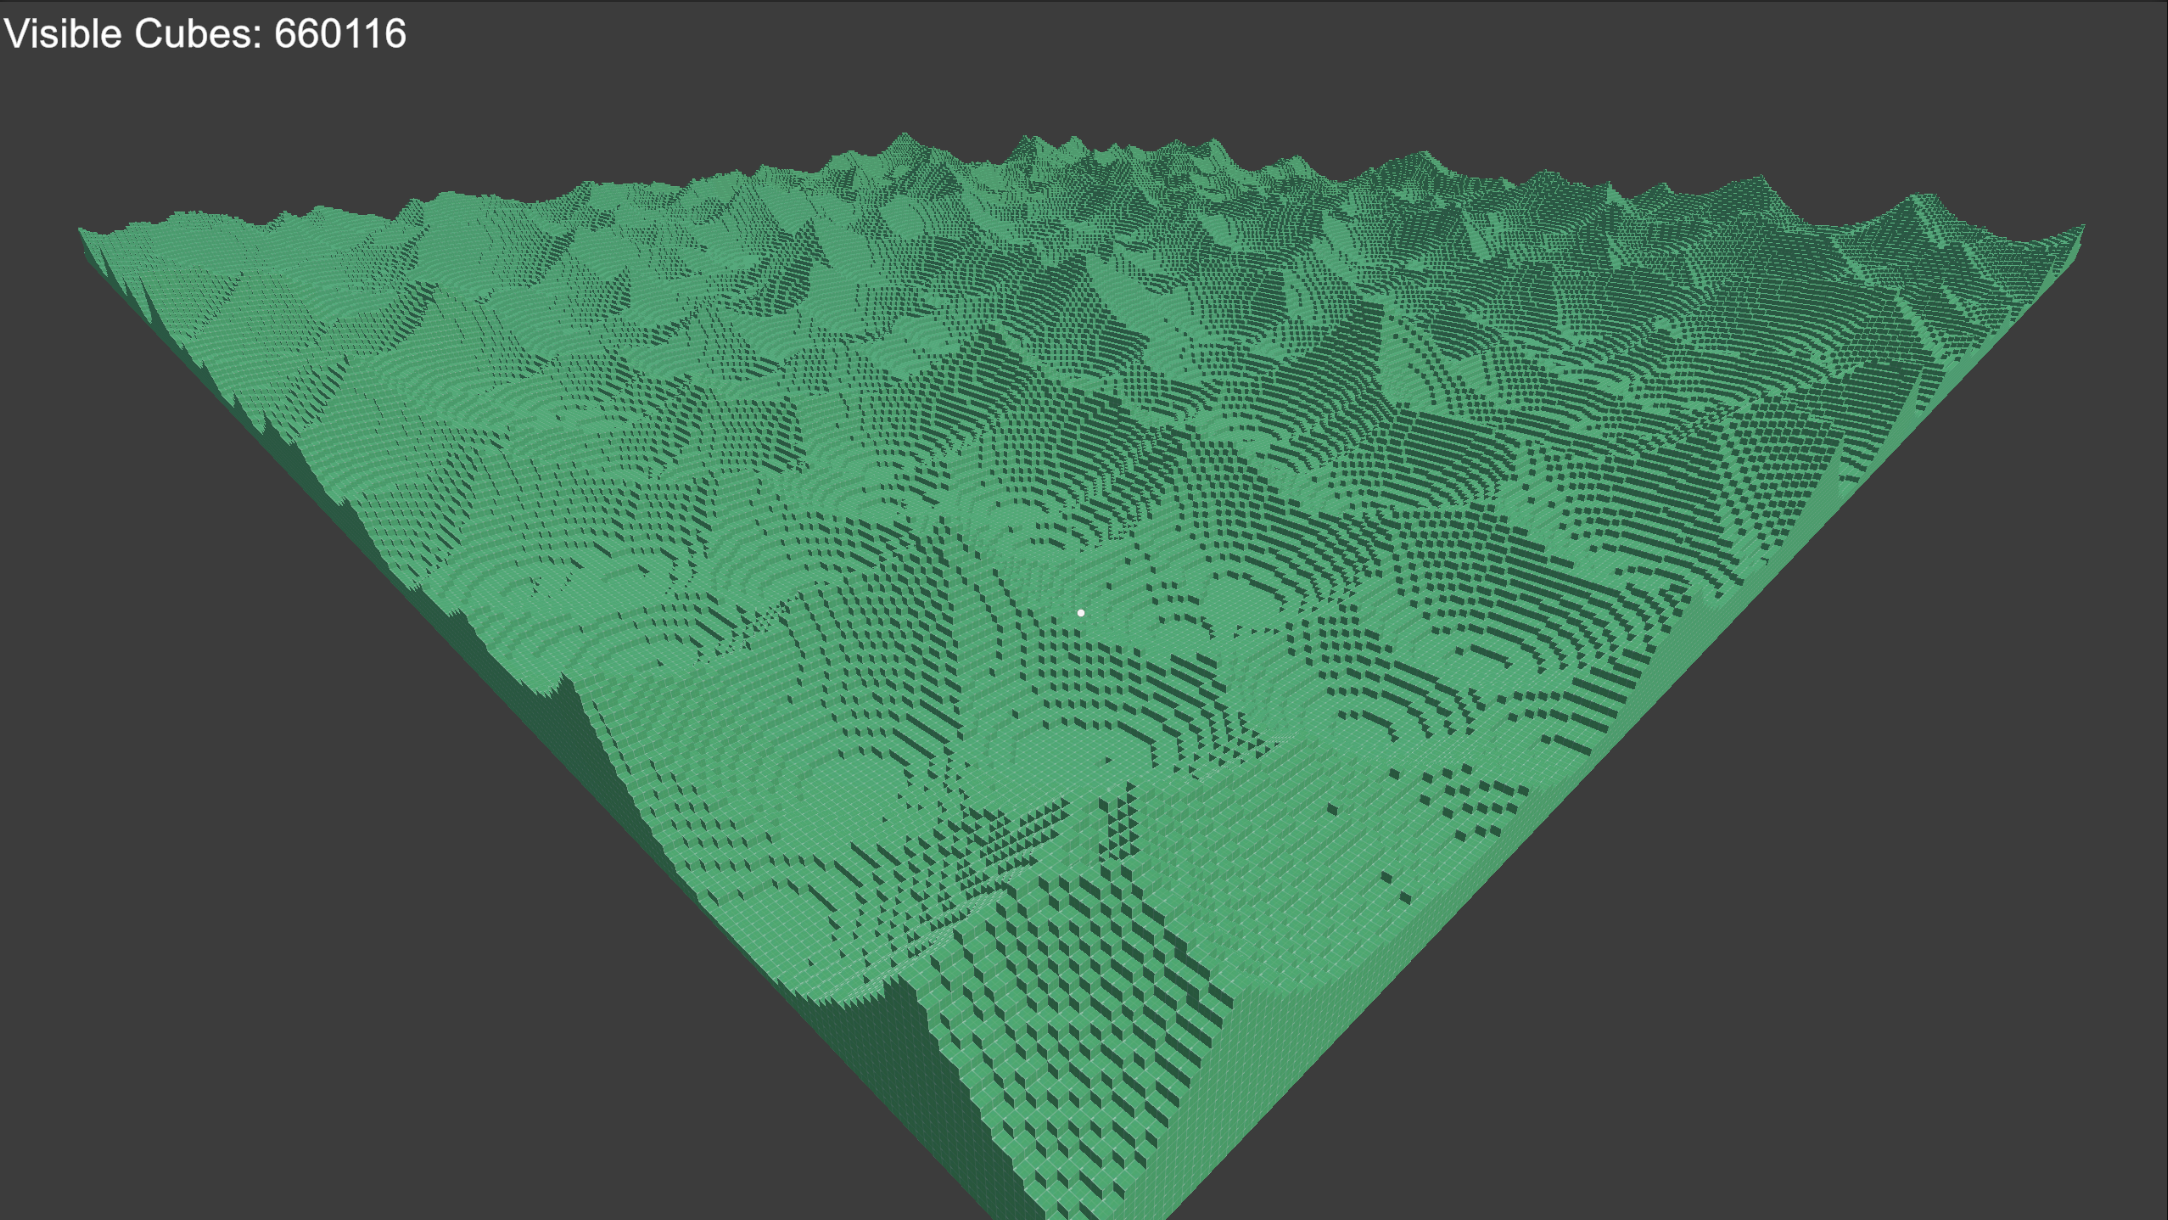
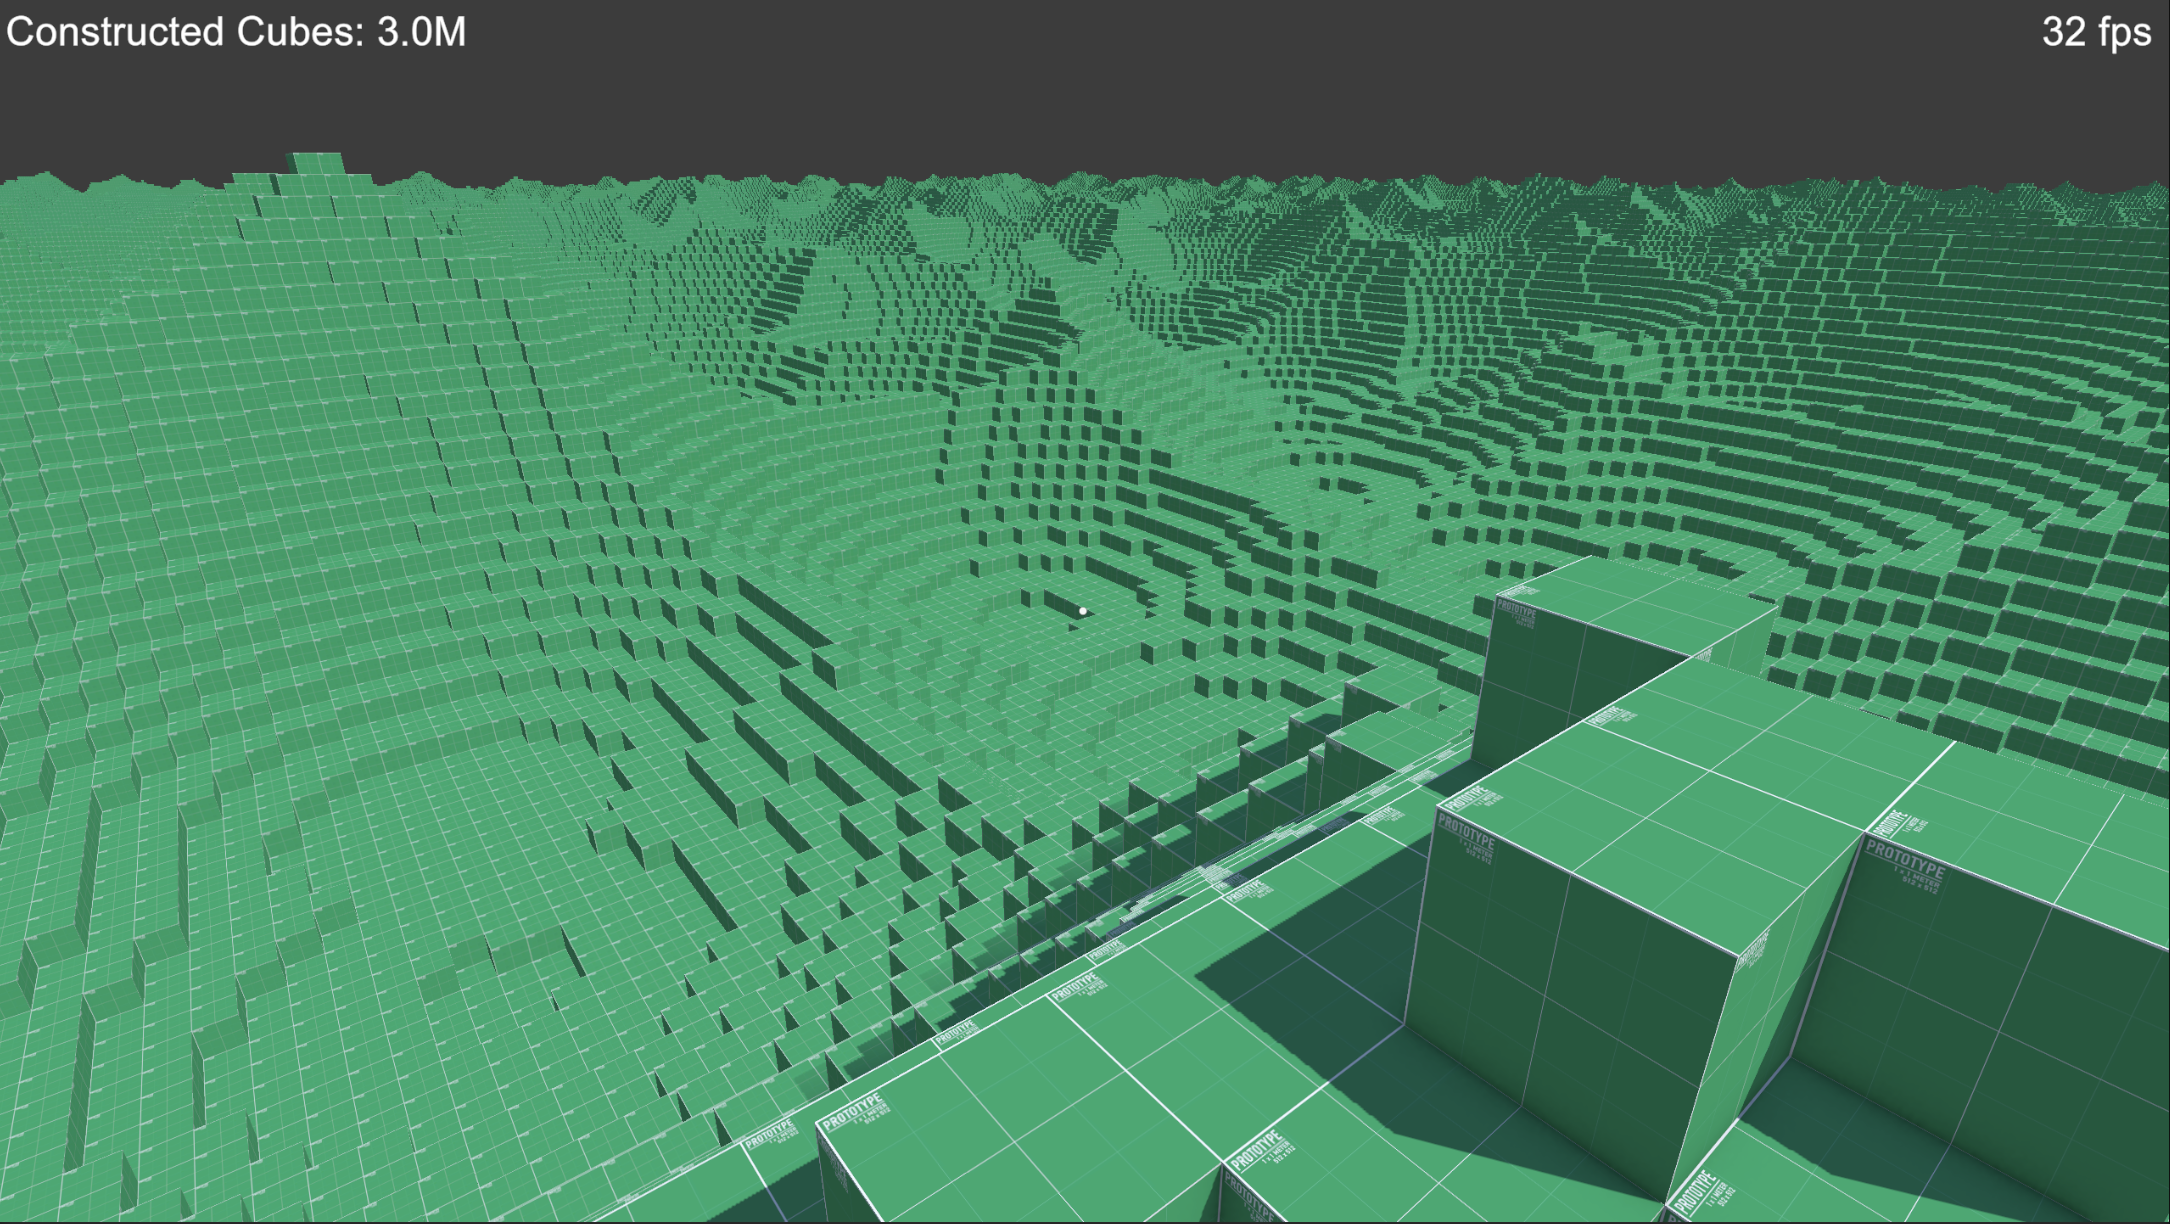
remove the gif and just use screenshot

diff --git a/README.md b/README.md
@@ -1,3 +1,3 @@
 Optimized voxel rendering algorithms for Unity, capable of very large meshes.
-![Preview](Assets/preview_video.gif)
+![screenshot](Assets/preview.png)
 ![screenshot](Assets/inspector.png)
